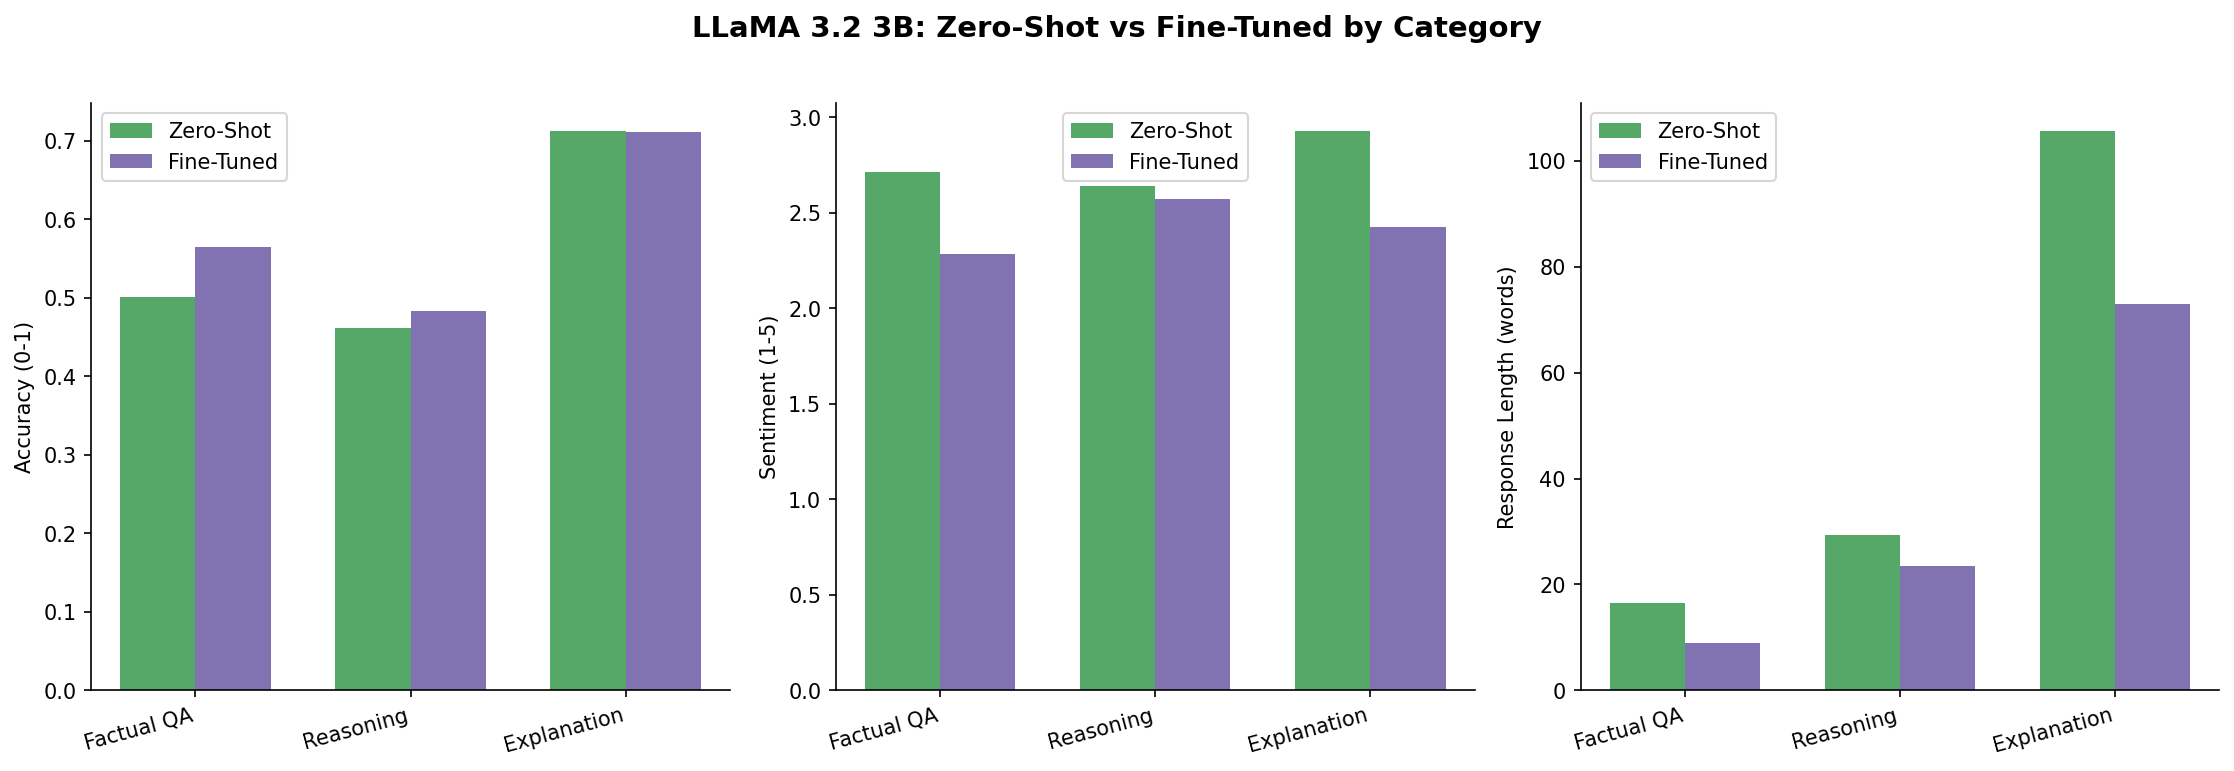
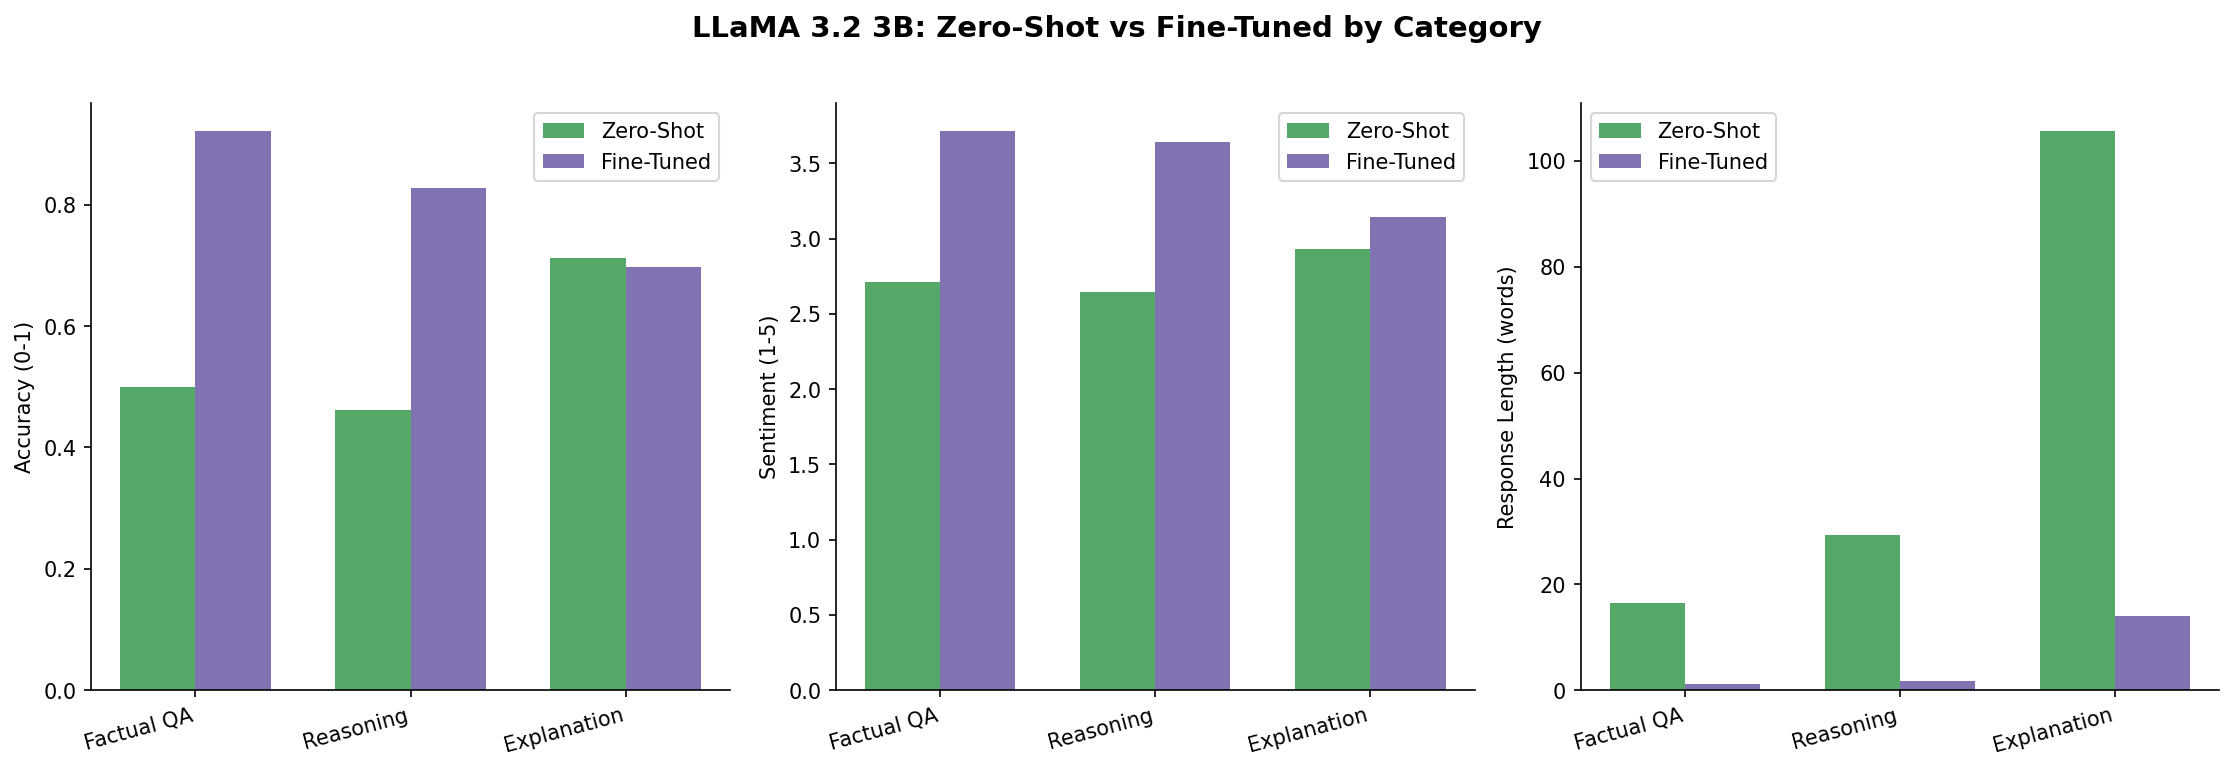
re-did fine-tuning on correct answers / noticeable difference / better results

diff --git a/fine_tuning/finetune_lora.py b/fine_tuning/finetune_lora.py
@@ -13,7 +13,7 @@ sys.path.insert(0, str(Path(__file__).parent.parent / "scripts"))
 from config import (
     LLAMA_SHEET_NAME, PLACEHOLDERS,
     SYSTEM_EN, SYSTEM_ES,
-    ZERO_SHOT_OUTPUT, FINE_TUNED_INPUT, FINE_TUNED_OUTPUT,
+    FINE_TUNING_TRAIN, FINE_TUNED_INPUT, FINE_TUNED_OUTPUT,
 )
 
 BASE_MODEL = "meta-llama/Llama-3.2-3B-Instruct"
@@ -38,26 +38,23 @@ def format_prompt(system: str, prompt: str, response: str = "") -> str:
 
 
 def load_training_data() -> Dataset:
-    if not ZERO_SHOT_OUTPUT.exists():
+    if not FINE_TUNING_TRAIN.exists():
         raise FileNotFoundError(
-            f"{ZERO_SHOT_OUTPUT} not found. Run 01_run_zero_shot.py first."
+            f"{FINE_TUNING_TRAIN} not found. Export the fine_tuning_sheet tab from Google Sheets first."
         )
 
-    df = pd.read_csv(ZERO_SHOT_OUTPUT, encoding='utf-8-sig')
+    df = pd.read_csv(FINE_TUNING_TRAIN, encoding='utf-8-sig')
     df.columns = [c.strip() for c in df.columns]
-
-    # only use rows that have real responses
-    df = df[df["Model"].str.strip() == LLAMA_SHEET_NAME]
-    df = df[~df["Response"].apply(is_placeholder)]
+    df = df[~df["Correct Answer"].apply(is_placeholder)]
 
     examples = []
     for _, row in df.iterrows():
         lang = str(row["Language"]).strip()
         system = SYSTEM_ES if lang.lower() == "spanish" else SYSTEM_EN
-        text = format_prompt(system, str(row["Prompt"]).strip(), str(row["Response"]).strip())
+        text = format_prompt(system, str(row["Prompt"]).strip(), str(row["Correct Answer"]).strip())
         examples.append({"text": text})
 
-    print(f"Built {len(examples)} training examples from zero-shot responses")
+    print(f"Built {len(examples)} training examples from ground-truth answers")
     return Dataset.from_list(examples)
 
 

diff --git a/scripts/config.py b/scripts/config.py
@@ -25,6 +25,7 @@ ZERO_SHOT_OUTPUT = DATA_DIR / "zero_shot_responses.csv"
 FEW_SHOT_INPUT   = DATA_DIR / "LLM_Response_Log - Few-Shot.csv"
 FEW_SHOT_OUTPUT  = DATA_DIR / "few_shot_responses.csv"
 
+FINE_TUNING_TRAIN = DATA_DIR / "LLM_Response_Log - fine_tuning_sheet.csv"
 FINE_TUNED_INPUT  = DATA_DIR / "LLM_Response_Log - Fine-Tuned LLaMA 3.2 3B.csv"
 FINE_TUNED_OUTPUT = DATA_DIR / "fine_tuned_responses.csv"
 